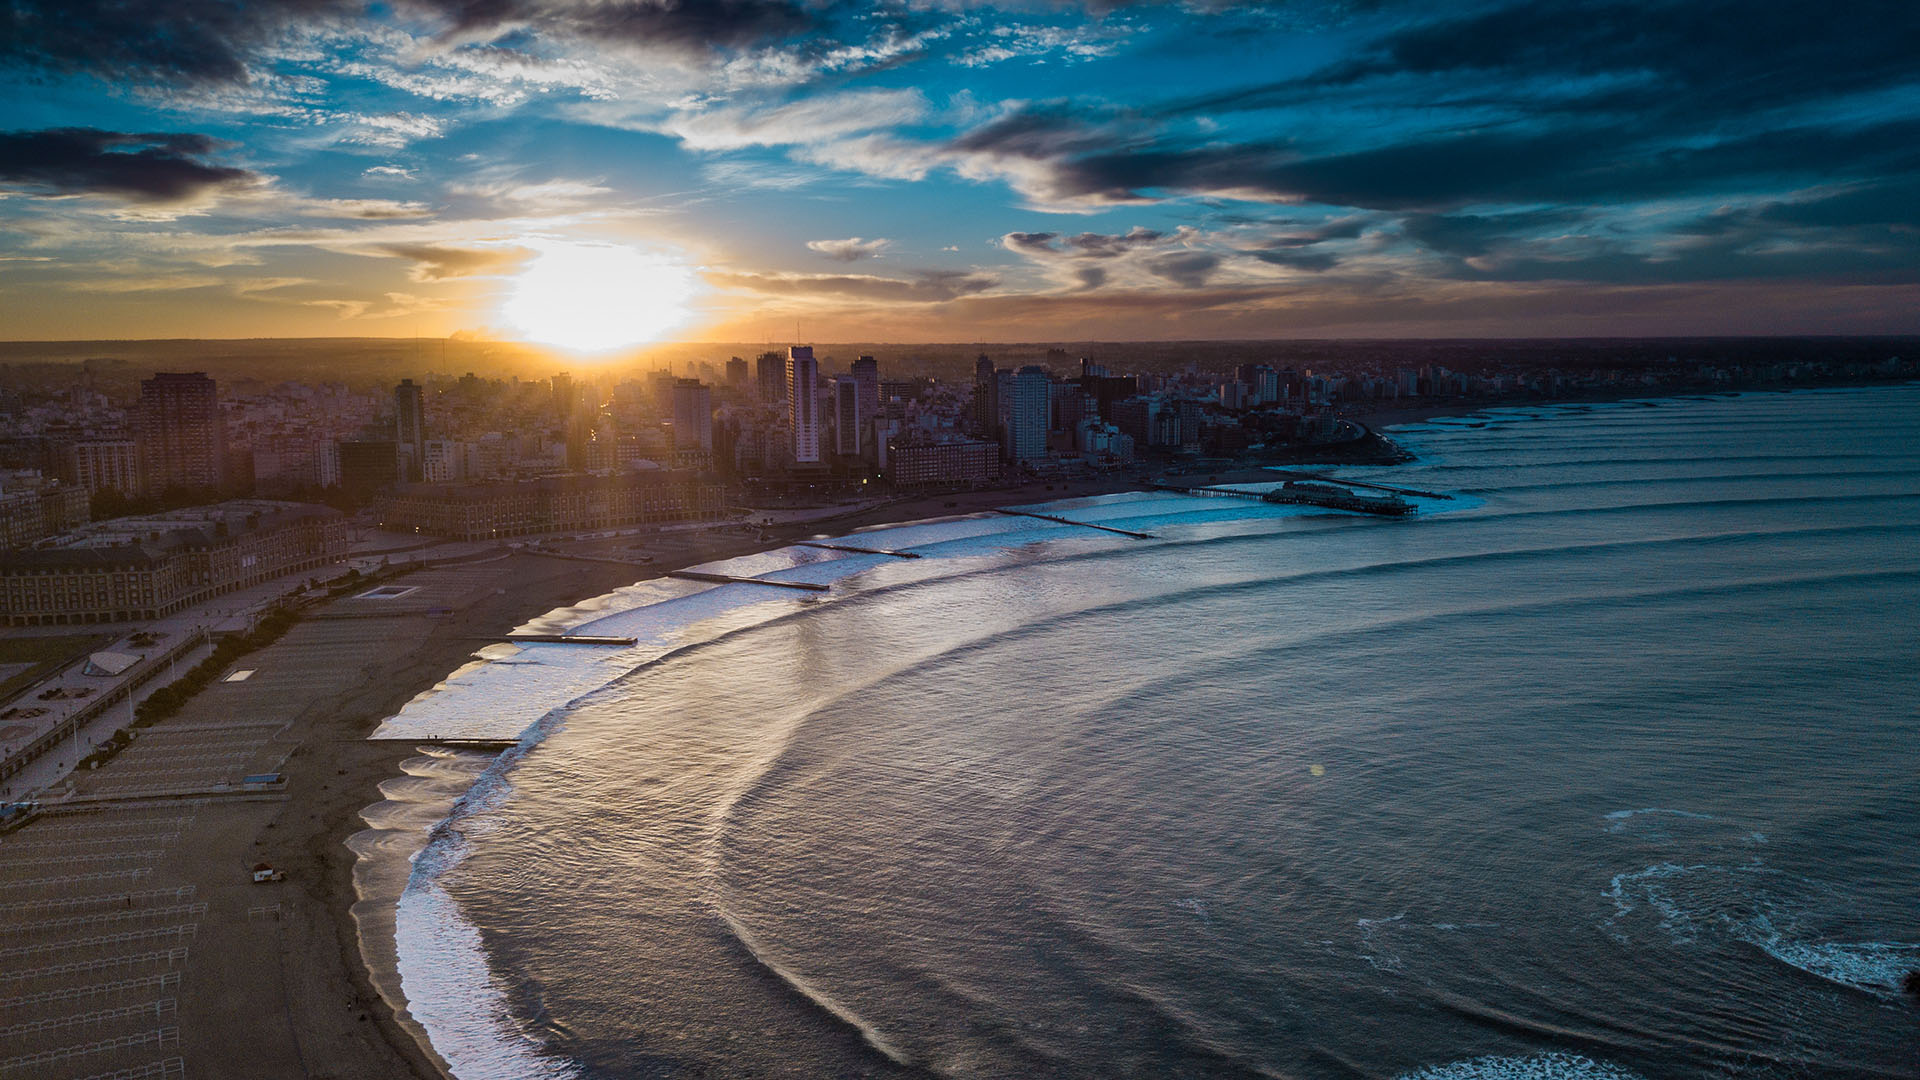
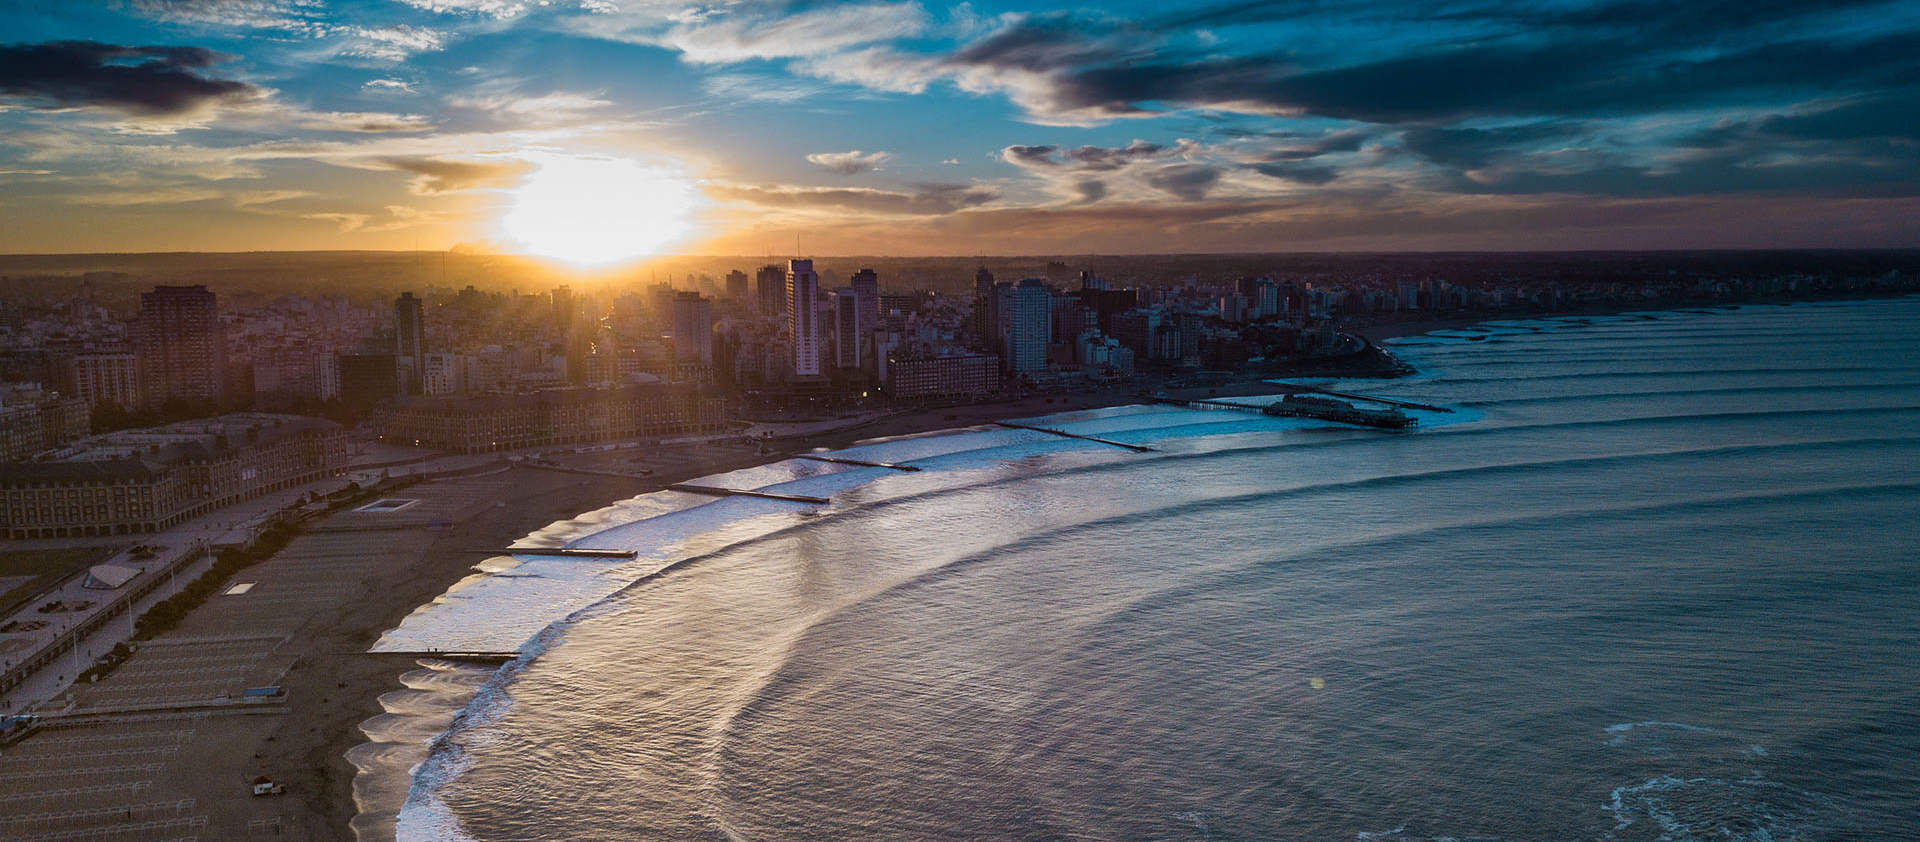
CAROUSEL LISTO

diff --git a/index.html b/index.html
@@ -26,11 +26,11 @@
                       </button>
                       <div class="collapse navbar-collapse" id="navbarNavAltMarkup">
                         <div class="navbar-nav">
-                          <a class="nav-link active text" aria-current="page" href="#">INICIO</a>
-                          <a class="nav-link" href="#">GALERIA</a>
-                          <a class="nav-link" href="#">SERVICIOS</a>
-                          <a class="nav-link" href="#">NOSOTROS</a>
-                          <a class="nav-link" href="#">CONTACTOS</a>
+                          <a class="nav-link active text" aria-current="page" href="./index.html">INICIO</a>
+                          <a class="nav-link" href="./paginas/galeria.html">GALERIA</a>
+                          <a class="nav-link" href="./paginas/servicios.html">SERVICIOS</a>
+                          <a class="nav-link" href="./paginas/nosotros.html">NOSOTROS</a>
+                          <a class="nav-link" href="./paginas/contacto.html">CONTACTOS</a>
                         </div>
                       </div>
                     </div>
@@ -38,6 +38,37 @@
         </header>
 
         <!--CAROUSEL-->
+        <section>
+            <div id="carouselExampleControls" class="carousel slide" data-bs-ride="carousel">
+                <div class="carousel-inner">
+                  <div class="carousel-item active">
+                    <img src="./multimedia/imagenes/mardelpanoramic.jpg" class="d-block w-100" alt="...">
+                  </div>
+
+                  <div class="carousel-item">
+                    <img src="./multimedia/imagenes/md1.jpg" class="d-block w-100" alt="...">
+                  </div>
+
+                  <div class="carousel-item">
+                    <img src="./multimedia/imagenes/md2.jpg" class="d-block w-100" alt="...">
+                  </div>
+            
+                </div>
+                <button class="carousel-control-prev" type="button" data-bs-target="#carouselExampleControls" data-bs-slide="prev">
+                  <span class="carousel-control-prev-icon" aria-hidden="true"></span>
+                  <span class="visually-hidden">Previous</span>
+                </button>
+                <button class="carousel-control-next" type="button" data-bs-target="#carouselExampleControls" data-bs-slide="next">
+                  <span class="carousel-control-next-icon" aria-hidden="true"></span>
+                  <span class="visually-hidden">Next</span>
+                </button>
+              </div>
+
+        </section>
+
+
+
+
 
         <!--MAIN
         <main class="main">

diff --git a/style.css b/style.css
@@ -105,6 +105,9 @@
 
 /*MAIN*/  
 
+.carousel-inner{
+    max-height: 40rem;
+}
 .main{
     /*grid-column: 1 / span 3;*/
     height: 100vh;
